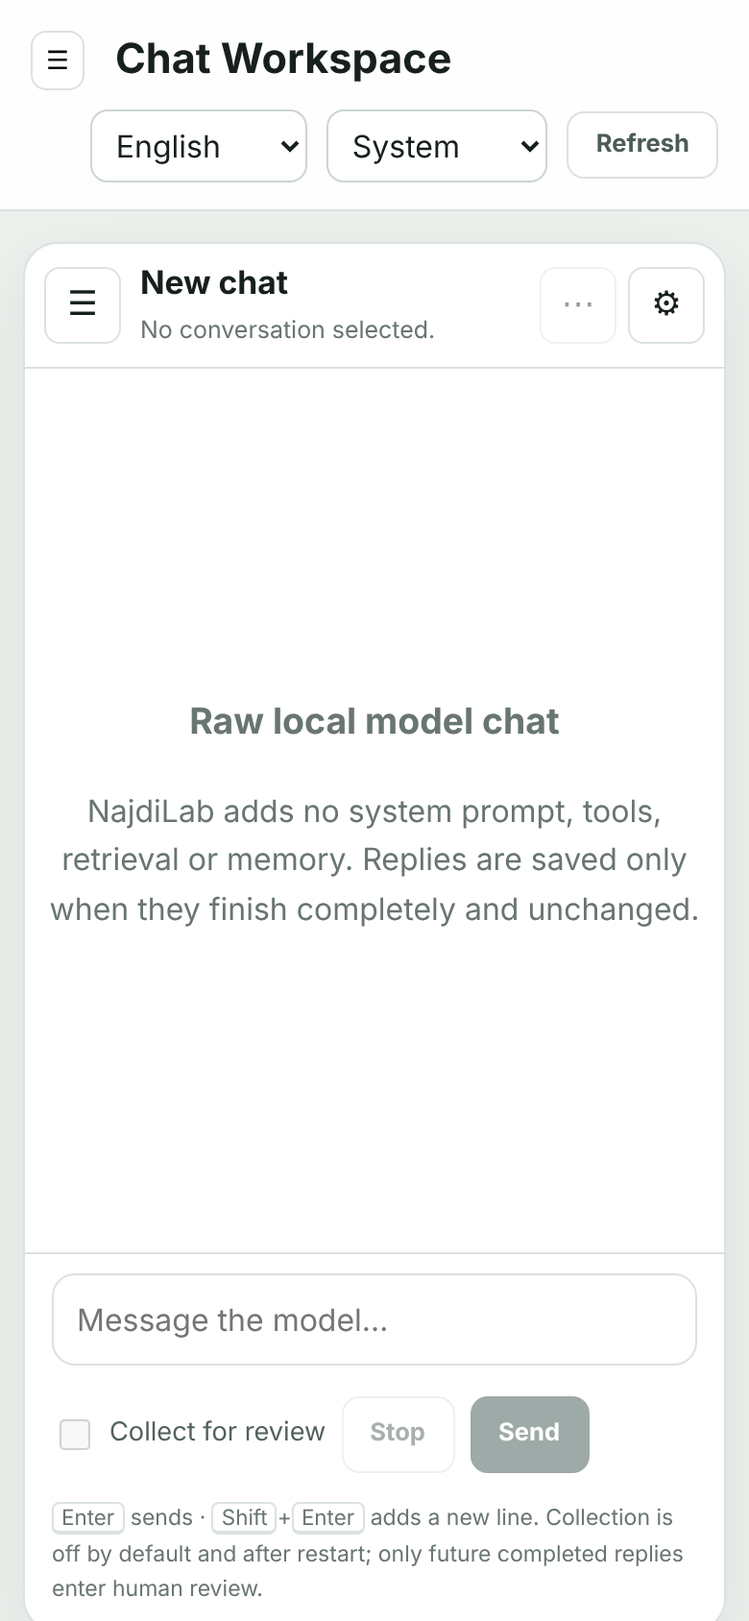
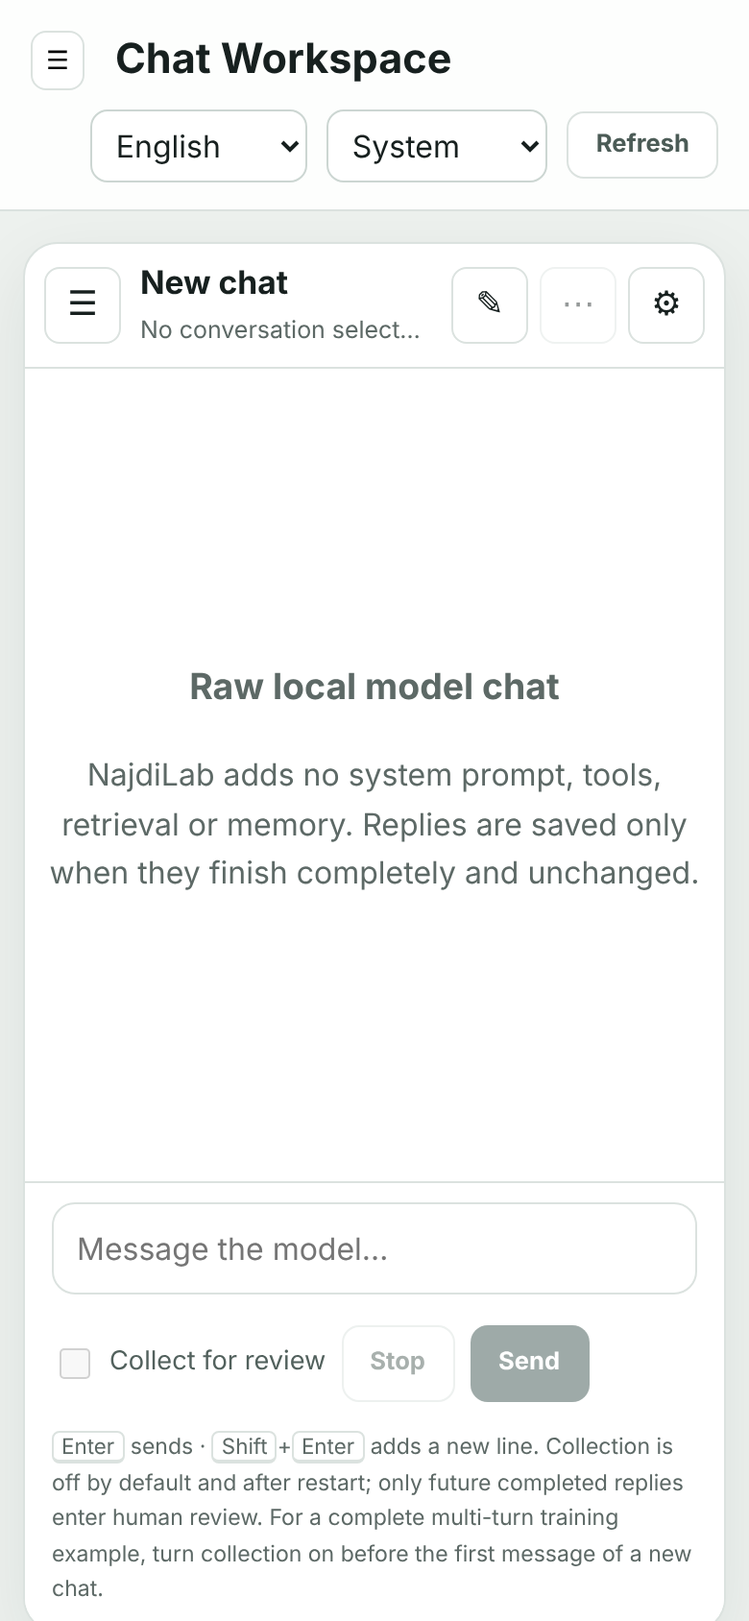
Phase UX/UI: audit, refinements and acceptance; docs and test log
- axe-core WCAG 2 A/AA audit over 212 states (15 views + 3 chat dialogs,
  6 sizes incl. 200%/400% zoom, light/dark, EN/AR): 148 violations and 28
  overflowing states before, 0 and 0 after (tests/ux-audit.cjs, optional).
- Fixes: tablet layout (conversation list overlay + wrapping top bar below
  1100px), New chat in the chat header when the list is hidden, dialogs
  scroll at 400% zoom, theme-aware contrast (footer, muted text, links,
  chips, dark-mode labels, tabs, warnings), Add data tab semantics,
  keyboard-focusable code blocks (static/ux-refinements.css).
- Before/after screenshots and regenerated README screenshots (synthetic).
- README guard: four badge rows, well-formed shields URLs, all relative
  links resolve.
- Docs: UX_UI_DESIGN_REVIEW.md; test log with PASS/FAIL/BLOCKED/NOT
  TESTED/SKIPPED per check; CHANGELOG; attribution for axe-core and
  puppeteer-core as test-time tools.

Claude-Session: https://claude.ai/code/session_01C5XLa6Krk2M46zPQGv4phc

diff --git a/static/ux-refinements.css b/static/ux-refinements.css
@@ -1,0 +1,45 @@
+/* Phase UX/UI refinements (2026-11-03). Loaded last. Every value below fixes a
+   measured axe-core finding or a screenshot finding; see docs/UX_UI_DESIGN_REVIEW.md. */
+
+/* Contrast (WCAG 2 AA 4.5:1 for small text). Light values measured against
+   their real backgrounds; dark mode uses the theme tokens. */
+:root{--muted:#5d6966}                                   /* was #697572: 4.48 → 5.35 on #f6f8f7 */
+.app-footer,footer{color:var(--muted)}                   /* was #71807b: 3.62 → 5.01 (light), 9+ (dark) */
+.chatv2-answer a{color:#3d6690}                          /* was #547da6: 4.32 → 6.0 */
+.status-neutral{color:#56635f}                           /* was #66736f: 4.31 → 5.48 */
+:root[data-theme="dark"] .chatv2-answer a{color:var(--blue)}
+:root[data-theme="dark"] .status-neutral{color:var(--ink)}
+:root[data-theme="dark"] :is(.eyebrow,[data-version-name]>span){color:var(--gold)}   /* #8a6d2e: 3.26 → 7.3 */
+:root[data-theme="dark"] .subtabs button.active{background:var(--surface-raised);color:var(--ink)} /* was 1.1:1 */
+:root[data-theme="dark"] :is(.inline-check,.balance-notice small,.recommendation small,.count-grid code,.hash-list code){color:var(--muted)}
+
+/* Keyboard access to horizontally scrolling code blocks. */
+.md-code pre:focus-visible{outline:3px solid var(--focus,#2563eb);outline-offset:-3px}
+
+/* Tablet: below 1100px the app navigation and the conversation list no longer
+   both fit beside a readable conversation, so the list becomes an overlay and
+   the top bar wraps instead of overflowing the page. */
+@media (max-width:1100px){
+  .topbar{flex-wrap:wrap;row-gap:8px}
+  .top-actions{flex-wrap:wrap;justify-content:flex-end;max-width:100%}
+  .chatv2,.chatv2[data-sidebar="closed"]{grid-template-columns:minmax(0,1fr)}
+  .chatv2-sidebar{position:absolute;inset-block:0;inset-inline-start:0;z-index:30;width:min(320px,86vw);max-height:none;box-shadow:var(--shadow,0 8px 24px rgba(0,0,0,.25))}
+  .chatv2-main{max-height:none;min-height:calc(100vh - 140px)}
+}
+
+/* "New chat" stays reachable when the list is hidden (phones, tablets, collapsed). */
+#chat-new-header{display:none}
+.chatv2[data-sidebar="closed"] #chat-new-header{display:inline-block}
+
+/* Second pass (dark mode leftovers from the audit). */
+:root[data-theme="dark"] :is(#page-breadcrumb,.health-card small){color:var(--gold)}
+:root[data-theme="dark"] :is(.privacy-chip,.status-ok){color:var(--status-ready-text)}
+:root[data-theme="dark"] :is(label[for="health-version"],label[for="balance-version"]){color:var(--muted)}
+:root[data-theme="dark"] .warning{background:var(--status-warning-bg);color:var(--status-warning-text)}
+
+/* Dialogs scroll inside themselves on short screens and at 400% zoom
+   (screenshot finding: the New chat dialog was cut off with no way to reach Start). */
+.chatv2-dialog{overflow-y:auto;overscroll-behavior:contain}
+/* Dark mode: the Add data tab bar kept a light background (screenshot finding). */
+:root[data-theme="dark"] .subtabs{background:var(--surface-soft)}
+:root[data-theme="dark"] .subtabs button:not(.active){color:var(--muted)}

diff --git a/static/app.js b/static/app.js
@@ -709,7 +709,7 @@ function bindEvents(){
   restrictionControls.forEach(selector=>$(selector).addEventListener('change',e=>{if(e.target.checked)$('#training-eligible').checked=false;}));
   $('#training-eligible').addEventListener('change',e=>{if(e.target.checked&&restrictionControls.some(selector=>$(selector).checked)){e.target.checked=false;toast('Resolve dataset restrictions explicitly before marking this record eligible.',true);}});
   $('#conversation-list').addEventListener('click',e=>{const b=e.target.closest('[data-id]');if(b)showConversation(b.dataset.id).catch(x=>toast(x.message,true));});$('#search-conversations').addEventListener('click',()=>loadConversations({fresh:true}).catch(e=>toast(e.message,true)));$('#conversation-search').addEventListener('keydown',e=>{if(e.key==='Enter')loadConversations({fresh:true}).catch(x=>toast(x.message,true));});$('#apply-reviewed-filters').addEventListener('click',()=>loadReviewed({fresh:true}).catch(e=>toast(e.message,true)));$('#reviewed-list').addEventListener('change',e=>{if(!e.target.matches('.reviewed-row-check'))return;const id=Number(e.target.dataset.reviewId);e.target.checked?state.reviewedSelected.add(id):state.reviewedSelected.delete(id);updateReviewedBulk();});$('#reviewed-list').addEventListener('click',e=>{const restore=e.target.closest('[data-restore-review]'),exclude=e.target.closest('[data-exclude-review]');if(restore)bulkReviewed('restore',[Number(restore.dataset.restoreReview)]).catch(x=>toast(x.message,true));if(exclude)bulkReviewed('exclude',[Number(exclude.dataset.excludeReview)]).catch(x=>toast(x.message,true));});$('#bulk-exclude-reviews').addEventListener('click',()=>bulkReviewed('exclude').catch(e=>toast(e.message,true)));$('#bulk-restore-reviews').addEventListener('click',()=>bulkReviewed('restore').catch(e=>toast(e.message,true)));
-  document.querySelectorAll('#view-add-data .subtabs [data-add-tab]').forEach(button=>button.addEventListener('click',()=>{document.querySelectorAll('#view-add-data .subtabs [data-add-tab]').forEach(b=>b.classList.toggle('active',b===button));document.querySelectorAll('#view-add-data .data-form').forEach(form=>form.classList.toggle('active',form.id===`form-${button.dataset.addTab}`));}));$('#add-sft-turn').addEventListener('click',()=>addSftTurn($('#sft-turns .turn-row:last-child .turn-role')?.value==='user'?'assistant':'user'));
+  document.querySelectorAll('#view-add-data .subtabs [data-add-tab]').forEach(button=>button.addEventListener('click',()=>{document.querySelectorAll('#view-add-data .subtabs [data-add-tab]').forEach(b=>{b.classList.toggle('active',b===button);b.setAttribute('aria-selected',String(b===button));});document.querySelectorAll('#view-add-data .data-form').forEach(form=>form.classList.toggle('active',form.id===`form-${button.dataset.addTab}`));}));$('#add-sft-turn').addEventListener('click',()=>addSftTurn($('#sft-turns .turn-row:last-child .turn-role')?.value==='user'?'assistant':'user'));
   $('#form-sft').addEventListener('submit',async e=>{
     e.preventDefault();
     const rows=Array.from(document.querySelectorAll('#sft-turns .turn-row'));

diff --git a/static/index.html b/static/index.html
@@ -18,6 +18,7 @@
   <link rel="stylesheet" href="/integrations.css">
   <link rel="stylesheet" href="/chat.css">
   <link rel="stylesheet" href="/i18n.css">
+  <link rel="stylesheet" href="/ux-refinements.css">
 </head>
 <body>
   <a class="skip-link" href="#main-content">Skip to main content</a>
@@ -98,6 +99,7 @@
                 <p id="chat-session-identity" class="chatv2-binding" role="status">No conversation selected.</p>
               </div>
               <div class="chatv2-header-actions">
+                <button id="chat-new-header" class="chatv2-icon" type="button" aria-label="New chat" title="New chat">✎</button>
                 <button id="chat-actions" class="chatv2-icon" type="button" aria-haspopup="menu" aria-expanded="false" aria-label="Conversation actions" title="Conversation actions" disabled>⋯</button>
                 <button id="chat-settings-open" class="chatv2-icon" type="button" aria-haspopup="dialog" aria-label="Chat settings and device details" title="Chat settings">⚙</button>
               </div>
@@ -313,8 +315,8 @@
       </section>
 
       <section id="view-add-data" class="view">
-        <div class="subtabs" role="tablist">
-          <button class="active" data-add-tab="sft">Conversation / SFT</button><button data-add-tab="direct">Direct language text</button><button data-add-tab="preference">Preference pair / DPO</button>
+        <div class="subtabs" role="tablist" aria-label="Data type">
+          <button class="active" role="tab" aria-selected="true" aria-controls="form-sft" data-add-tab="sft">Conversation / SFT</button><button role="tab" aria-selected="false" aria-controls="form-direct" data-add-tab="direct">Direct language text</button><button role="tab" aria-selected="false" aria-controls="form-preference" data-add-tab="preference">Preference pair / DPO</button>
         </div>
         <form id="form-sft" class="data-form panel active">
           <div class="form-intro"><h2>Manual conversation</h2><p>Add a short or multi-turn conversation while preserving context order.</p></div>

diff --git a/static/chat.js b/static/chat.js
@@ -389,7 +389,7 @@
     el('chat-sidebar-toggle').setAttribute('aria-expanded',String(open));
     if(store){try{global.localStorage.setItem(SIDEBAR_KEY,open?'open':'closed');}catch{}}
   }
-  const narrow=()=>global.matchMedia&&global.matchMedia('(max-width: 760px)').matches;
+  const narrow=()=>global.matchMedia&&global.matchMedia('(max-width: 1100px)').matches;
   let listItems=[];
   async function saved(more=false){
     const offset=more?savedLoaded:0;
@@ -719,13 +719,14 @@
     const pref=sidebarPreference();
     setSidebar(narrow()?false:pref!=='closed',false);
     if(global.matchMedia){
-      const query=global.matchMedia('(max-width: 760px)');
+      const query=global.matchMedia('(max-width: 1100px)');
       const change=()=>setSidebar(query.matches?false:sidebarPreference()!=='closed',false);
       if(query.addEventListener)query.addEventListener('change',change);
     }
     el('chat-sidebar-toggle').onclick=()=>setSidebar(el('chat-shell').dataset.sidebar!=='open',!narrow());
     el('chat-sidebar-close').onclick=()=>{setSidebar(false,!narrow());el('chat-sidebar-toggle').focus();};
     el('chat-new').onclick=act(async()=>{await loadRuntimes();openSetup();});
+    el('chat-new-header').onclick=act(async()=>{await loadRuntimes();openSetup();});
     el('chat-provider').onchange=fillModels;
     el('chat-model').onchange=()=>{withdrawApproval();renderPresets();updateBreakdown();};
     el('chat-preset-check').onclick=async()=>{el('chat-setup-error').textContent='';try{await checkPresets();}catch(error){compose(el('chat-setup-error'),errorParts(error));}};

diff --git a/static/i18n-ar.js b/static/i18n-ar.js
@@ -825,6 +825,7 @@
     'Reviewer reasons that cannot be removed': 'أسباب مراجعين لا يمكن حذفها',
     'Some review events have a reason written by a reviewer. Those reasons are locked by the audit trail and stay as written; check that they do not quote this conversation.': 'بعض أحداث المراجعة فيها سبب كتبه مراجع. هذه الأسباب مقفلة في سجل التدقيق وتبقى كما كُتبت؛ تأكد أنها لا تقتبس من هذه المحادثة.',
     'Conversation deleted from the database, but the database journal could not be cleaned yet because another reader was using it. Old copies may remain in the journal file until NajdiLab restarts.': 'حُذفت المحادثة من قاعدة البيانات، لكن تعذّر تنظيف سجل قاعدة البيانات الآن لأن قارئًا آخر كان يستخدمه. قد تبقى نسخ قديمة في ملف السجل حتى يُعاد تشغيل نجدي لاب.',
+    'Data type': 'نوع البيانات',
     // Chat Experience V2 (2026-11-02): chat UI, permanent deletion, NajdiLab Native.
     '16384 context · 3072 reply': 'سياق 16384 · رد 3072',
     '4096 context · 1024 reply': 'سياق 4096 · رد 1024',

diff --git a/static/chat-markdown.js b/static/chat-markdown.js
@@ -171,7 +171,8 @@
       const box=el('div','md-code'),head=el('div','md-code-head'),label=el('span','md-code-lang'),copy=el('button','md-copy');
       label.textContent=node.lang||t('Code');label.setAttribute('translate','no');
       copy.type='button';copy.textContent=t('Copy code');copy.dataset.code=node.text;
-      const pre=el('pre'),code=el('code');pre.dir='ltr';code.textContent=node.text;pre.append(code);
+      // Focusable so a wide block can be scrolled with the keyboard (WCAG 2.1.1).
+      const pre=el('pre'),code=el('code');pre.dir='ltr';pre.tabIndex=0;pre.setAttribute('aria-label',t('Code'));code.textContent=node.text;pre.append(code);
       head.append(label,copy);box.append(head,pre);return box;
     }
     for(const node of nodes)fragment.append(make(node));

diff --git a/tests/test_readme_structure.py b/tests/test_readme_structure.py
@@ -114,3 +114,22 @@ def test_licensing_and_attribution_links():
     licensing = section("Licensing and attribution")
     assert "docs/THIRD_PARTY_ATTRIBUTION.md" in licensing
     assert "no active source license" in licensing.lower()
+
+
+def test_badge_urls_are_well_formed_shields_badges():
+    """shields.io renders `badge/<label>-<message>-<hex color>`; a malformed URL shows
+    a broken image on GitHub. Checked offline (the renderer is not contacted)."""
+    rows = re.findall(r'<p align="center">\s*((?:<a [^>]+><img [^>]+></a>\s*)+)</p>', README)
+    assert len(rows) == 4, f"four badge rows in the approved design, found {len(rows)}"
+    for url in re.findall(r'src="(https://img\.shields\.io/badge/[^"]+)"', README):
+        path, _, query = url.partition('?')
+        body = unquote(path.rsplit('/badge/', 1)[1])
+        parts = re.split(r'(?<!-)-(?!-)', body)
+        assert len(parts) == 3 and re.fullmatch(r'[0-9A-Fa-f]{6}', parts[2]), f"malformed badge: {url}"
+        assert 'style=for-the-badge' in query.replace('&amp;', '&'), url
+
+
+def test_badge_links_and_all_relative_links_resolve():
+    targets = re.findall(r'<a href="([^"#]+)', README) + re.findall(r'\]\((?!https?:|#)([^)#\s]+)', README)
+    missing = [t for t in targets if not t.startswith('http') and not (ROOT / unquote(t)).exists()]
+    assert not missing, f"README links to missing files: {missing}"

diff --git a/docs/UX_UI_DESIGN_REVIEW.md b/docs/UX_UI_DESIGN_REVIEW.md
@@ -1,0 +1,84 @@
+# Phase UX/UI — design audit, refinement and acceptance
+
+| | |
+|---|---|
+| Date | 2026-11-03 |
+| Branch | `feature/chat-experience-v2` |
+| Scope | The whole interface: all 15 views, the chat setup dialog, chat settings drawer, delete dialog and action menu |
+| Data | Synthetic browser fixture only (`tests/chat_browser_fixture.py`); no personal conversation, credential or real model |
+| Gate status | **Automated and screenshot review: PASS after fixes.** Owner visual sign-off, real screen readers, real IMEs, other browsers and Windows rendering: **NOT TESTED**. |
+
+## Tools and their limits
+
+- The requested Claude Code skills **`frontend-design` and `web-design-guidelines` were not available** in this session (`Unknown skill` for both). No skill was used; this review was done manually with the tools below.
+- **axe-core 4.10.3** (MPL-2.0, Deque Systems; test-time only, not shipped) run by `tests/ux-audit.cjs` against WCAG 2.0/2.1 A and AA rules in headless Chromium (build 1243).
+- Real browser screenshots of every state, read one by one. axe does not judge layout or design, so the screenshots were reviewed separately; two problems below were found only that way.
+- Matrix: 6 sizes (desktop 1440×900, tablet 820×1180, phone 390×844 and 320×700, 200 % zoom ≈ 720×450, 400 % zoom ≈ 360×225) × light/dark × English (LTR)/Arabic (RTL). All 15 views at desktop-light and 390-dark; dashboard, chat, review and settings plus the three chat dialogs everywhere: **212 page states** per run.
+
+## Results
+
+| Measure | Before | After |
+|---|---:|---:|
+| axe WCAG 2 A/AA violations (rule × state) | 148 (`color-contrast` 140, `aria-required-children` 4, `scrollable-region-focusable` 4) — 586 affected nodes | **0** |
+| States with horizontal page overflow | 28 (every tablet state, up to 173 px) | **0** |
+| Screenshot-only findings | 4 (UX-2, UX-3, UX-13, UX-14) | 0 open |
+
+Existing acceptance suites after the changes: `a11y-browser.cjs` (keyboard, names, 200 %/400 % zoom) 13/13, `i18n-browser.cjs` (Arabic RTL, no untranslated text, 390 px) 10/10, `chat-browser.cjs` and `chat-enhancements-browser.cjs` PASS, `review-restrictions-browser.cjs` 12/12. Counts and commit: [test results](development/CHAT_EXPERIENCE_V2.md#test-results).
+
+## Findings and fixes
+
+| ID | Where | Finding | Evidence | Fix |
+|---|---|---|---|---|
+| UX-1 | All views, tablet (820 px) | Page overflowed horizontally by up to 173 px; the chat pane was squeezed to ~200 px between the app navigation and the conversation list. | axe audit overflow; screenshot | Below 1100 px the conversation list becomes an overlay and the top bar wraps (`static/ux-refinements.css`, `static/chat.js` breakpoint). |
+| UX-2 | Phones, tablets, collapsed list | "New chat" was only inside the hidden conversation list. | Screenshot; the audit script could not click it at 390 px | ✎ "New chat" button in the chat header whenever the list is hidden. |
+| UX-3 | Chat dialogs at 400 % zoom / short screens | The New chat dialog was cut off with no scroll, so Start was unreachable. Not detectable by axe. | Screenshot `before-zoom-400…` | Dialogs scroll inside themselves; regression check in `chat-browser.cjs`. |
+| UX-4 | Global footer (light and dark) | Text #71807b: 3.62:1 on light, 4.41:1 on dark. | axe | Theme token `--muted`; 5.01:1 light. |
+| UX-5 | Muted labels (light) | #697572: 4.48:1 (chat roles, list metadata, many labels). | axe | `--muted` → #5d6966 (5.35:1). |
+| UX-6 | Markdown links (light) | #547da6: 4.32:1. | axe | #3d6690 (6.0:1); dark uses `--blue`. |
+| UX-7 | Status chips | `.status-neutral` 4.31:1 light; `.status-ok`, privacy chip unreadable in dark. | axe | Theme-aware colors. |
+| UX-8 | Dark mode labels | Eyebrow labels, breadcrumb, version tags, health cards #8a6d2e: 3.26:1. | axe | `--gold` (7.3:1). |
+| UX-9 | Add data tabs, dark | Active tab text on a white background: **1.1:1**. | axe; `before-mobile-390-dark-ar-add-data` | Theme surface background. |
+| UX-10 | Dark mode filters/notes/code | #52615d / #6b7773 on dark panels: 2.44–3.41:1; export warning used the light warning background. | axe | Theme tokens. |
+| UX-11 | Add data tabs | `role="tablist"` without `role="tab"` children (screen readers announce an empty tab list). | axe `aria-required-children` | `role="tab"`, `aria-selected` (kept in sync), `aria-controls`, `aria-label`. |
+| UX-12 | Markdown code blocks | Horizontally scrolling `<pre>` not reachable by keyboard. | axe `scrollable-region-focusable` | `tabindex="0"`, label "Code", visible focus ring. |
+| UX-14 | Add data tab bar, dark | The tab bar kept a light background in dark mode (contrast passed, but inconsistent). | Screenshot | Theme surface; inactive tabs use `--muted`. Quick re-audit after this change: 36 states, 0 violations, 0 overflow. |
+| UX-13 | Chat after reload | A stale error notice hid the "bound to original model" warning. | Ported PR #21 browser test | Notices reset on reload (`static/chat.js`). |
+
+## Before and after
+
+| Finding | Before | After |
+|---|---|---|
+| UX-1 tablet overflow | ![before](images/ux-review/before-tablet-light-en-chat.png) | ![after](images/ux-review/after-tablet-light-en-chat.png) |
+| UX-8 dark contrast | ![before](images/ux-review/before-desktop-dark-en-dashboard.png) | ![after](images/ux-review/after-desktop-dark-en-dashboard.png) |
+| UX-3 400 % zoom dialog | ![before](images/ux-review/before-zoom-400-light-en-chat-setup-dialog.png) | ![after](images/ux-review/after-zoom-400-light-en-chat-setup-dialog.png) |
+| UX-9 Arabic dark tabs | ![before](images/ux-review/before-mobile-390-dark-ar-add-data.png) | ![after](images/ux-review/after-mobile-390-dark-ar-add-data.png) |
+
+All images come from the synthetic fixture (titles like "MARKDOWN_FIXTURE", synthetic Arabic sample text); none contains personal conversations, credentials or paths beyond the temporary loopback address.
+
+## Reviewed and kept as is
+
+- **Navigation and hierarchy:** existing app navigation, breadcrumb and page titles are clear; Chat V2 keeps its own list beside the conversation on desktop.
+- **Chat composition and streaming:** large composer, Send/Stop always visible (≥40 px targets), live status line per phase, dashed border while streaming, red dashed "not saved" state.
+- **Thinking and Markdown:** thinking collapses when the answer starts and is visually secondary; Markdown has a raw-text toggle; code blocks are LTR inside RTL text.
+- **Model selection and context:** presets show the reason they are locked; budget breakdown below; Ollama consent box only for Ollama.
+- **Hardware and Native:** tables label Measured / Reported / Estimate / Unknown; Native panel explains it never downloads anything.
+- **Archive and delete:** archive uses a confirm; delete needs the typed word, lists what is deleted, kept and unreachable, and reports a busy journal.
+- **Review and dataset screens:** contrast fixed; layouts unchanged (they already passed the earlier 390 px acceptance).
+- **States:** empty, loading ("Waiting for the model…"), error (message + code + hint), disabled (presets with reason, Send without text).
+- **Architecture:** vanilla HTML/CSS/JS kept; one new stylesheet, no framework or build step.
+
+## Remaining limitations (not tested here)
+
+- Real screen readers (NVDA, Narrator, VoiceOver) and real IMEs (Arabic, CJK).
+- Firefox, Safari and Windows font rendering.
+- Owner's visual approval of the refined colors.
+- The interface still needs a GPU for presets to unlock (PR #21 rule; see [reconciliation](development/PR21_PR22_RECONCILIATION.md)).
+
+## Reproduce
+
+```bash
+npm install --prefix ../chat-browser-tools --ignore-scripts --no-audit --no-fund puppeteer-core@25.16.0 axe-core@4.10.3
+NAJDILAB_BROWSER_EXECUTABLE=/path/to/chromium NODE_PATH=../chat-browser-tools/node_modules node tests/ux-audit.cjs ux-audit-output
+```
+
+The run writes `ux-audit.json` (violations, overflow per state) and one screenshot per state.

diff --git a/docs/development/CHAT_EXPERIENCE_V2.md b/docs/development/CHAT_EXPERIENCE_V2.md
@@ -102,31 +102,43 @@ Guard: `tests/test_readme_structure.py` (8 checks) fails if a refactor removes a
 
 ## Test results
 
-Run on 2026-11-02, Linux container (Python 3.13.18, Node 22.23.4, Chromium build 1243 via `puppeteer-core@25.16.0`, llama.cpp `llama-server` b12059 CPU build). The tested code is exactly the commit that adds this log; only this section changed after the run. **Windows was not run. Hosted GitHub Actions results are not claimed.**
+### Remediation run (2026-11-03) — current
 
-| Suite | Passed | Failed | Skipped | Notes |
-|---|---:|---:|---:|---|
-| `pytest tests` with `NAJDILAB_NATIVE_TEST_SERVER` set | 729 | 0 | 33 | 59 subtests passed. Includes 3 real llama-server lifecycle tests. |
-| `pytest tests` without a llama-server | 726 | 0 | 36 | The 3 extra skips are the Native lifecycle tests. |
-| Node unit tests (7 files, CI list) | 43 | 0 | 0 | Includes the new `chat-v2-ui.test.cjs` and the extended Arabic catalog checks. |
-| Chromium `chat-browser.cjs` | PASS | — | — | One end-to-end script: keyboard, duplicates, streaming, thinking, Markdown/XSS, sidebar actions, 320/390px, rollover, Stop, Ollama approval, hardware tables, draft preservation, permanent delete. |
-| Chromium `review-restrictions-browser.cjs` | 12 | 0 | 0 | |
-| Chromium `i18n-browser.cjs` | 10 | 0 | 0 | Arabic RTL scan includes the chat view, the new-chat dialog and 390px. |
-| Chromium `a11y-browser.cjs` | 13 | 0 | 0 | Keyboard, names, 200%/400% zoom. |
-| `scripts/check_docs.py` | PASS | — | — | 73 Markdown files, links and API inventory. |
-| `compileall app scripts tests` | PASS | — | — | |
+Linux container, Python 3.13.18, SQLite 3.53.1, Node 22.23.4, Chromium build 1243 via `puppeteer-core@25.16.0`, llama.cpp `llama-server` b12059 (CPU). Tested tree: the commit that adds this section (PR #21 reconciliation `c7c4261` + security/deletion `38ea703` + UX/UI changes). Synthetic data only.
 
-Skipped tests (33) are not passes: 24 need private historical artifacts that are not in the repository; 9 need a real Ollama binary (`NAJDILAB_DISPOSABLE_OLLAMA=1`), not installed here.
+| Check | Status | Passed | Failed | Skipped | Notes |
+|---|---|---:|---:|---:|---|
+| `pytest tests` (with `NAJDILAB_NATIVE_TEST_SERVER`) | PASS | 771 | 0 | 33 | 59 subtests. Skips: 22 private historical artifacts not in the repo, 9 real-Ollama (`NAJDILAB_DISPOSABLE_OLLAMA=1`), 2 Windows-only checks. |
+| Node unit tests (`tests/*.test.cjs`, 8 files) | PASS | 49 | 0 | 0 | Includes PR #21 unit tests ported to the V2 API. |
+| Core builder `public_source/tests/test_builder.py` | PASS | 12 | 0 | 0 | **Was 8/12 (FAIL) on `d085ed2`**: new files unclassified; fixed. |
+| Core candidate build + verify + tests + harness + browser | PASS | 78 | 0 | 0 | Same steps as `public-source-candidate.yml`. |
+| Chromium `chat-browser.cjs` | PASS | — | — | — | V2 end-to-end incl. 400 % zoom dialog reachability. |
+| Chromium `chat-enhancements-browser.cjs` (PR #21, ported) | PASS | — | — | — | |
+| Chromium `review-restrictions-browser.cjs` | PASS | 12 | 0 | 0 | |
+| Chromium `i18n-browser.cjs` (Arabic RTL / English LTR, 390 px) | PASS | 10 | 0 | 0 | |
+| Chromium `a11y-browser.cjs` (keyboard, names, 200 %/400 % zoom) | PASS | 13 | 0 | 0 | |
+| UX audit `tests/ux-audit.cjs` (axe-core WCAG 2 A/AA + overflow, 212 states) | PASS | 0 violations | — | — | Before: 148 violations, 28 overflowing states. |
+| README guard `test_readme_structure.py` | PASS | 10 | 0 | 0 | Fails 8/8 core checks on the shortened PR #11 README. |
+| `check_docs.py`, `compileall` | PASS | — | — | — | |
+| Migration 008 rollback (older `634e7a5` code on a migrated DB) | PASS | — | — | — | Manual run: list/get/send/create/archive, integrity ok, no FK errors. |
+| Acceptance runner `scripts/acceptance_chat_v2.py` (Linux, CPU) | PASS for the steps it could run | — | — | — | Migration on a read-only copy PASS; Native start/stop/unload PASS; synthetic model's reply correctly refused as `STOP_REASON_LENGTH`. |
+| Windows 11 (all suites) | BLOCKED | — | — | — | No computer connected. |
+| RTX 5070 / CUDA / VRAM / OOM | BLOCKED | — | — | — | No GPU. |
+| Real Gemma 4 on Ollama, LM Studio, real GGUF | NOT TESTED | — | — | — | Needs the owner's machine. |
+| README badge rendering on GitHub | NOT TESTED | — | — | — | shields.io unreachable from here; URLs validated offline, local images verified. |
+| Hosted GitHub Actions | SKIPPED | — | — | — | Workflows skip Draft PRs by design (`if: draft == false`); hosted allocation reported exhausted. **Skipped is not PASS.** |
 
-New tests in this branch: `test_chat_v2.py` (24), `test_chat_v2_stream.py` (11), `test_native_runtime.py` (11), `test_readme_structure.py` (8), `chat-v2-ui.test.cjs` (14), the Chat V2 catalog check, and the rewritten chat section of `chat-browser.cjs`. Failure cases are covered explicitly: stale revision, wrong confirmation, active turn, exported copy, mid-transaction failure, stream error lines, data after the final chunk, missing final chunk, wrong content type, length stop, empty answer, prompt-count mismatch, changed model file, wrong context, stopped runtime, hostile GGUF headers, path traversal, unsafe links and raw HTML.
+### Earlier run (2026-11-02, `d085ed2`) — superseded
 
-Two existing UI-contract tests (`test_dataset_scope_ui.py`, `test_dataset_ui.py`) asserted the old chat wording; they were updated to the V2 labels for the same controls and disclosure. `test_chat_hardware.py` was updated for the new 4096 tier. `test_phase_a_regressions.py` now expects 008 as the last registered migration.
+The earlier table claimed all suites passed, but the Core builder suite (`public_source/tests/test_builder.py`) had **not** been run and was failing 4/12; that omission is recorded here and fixed above.
 
-Not tested: Windows; any GPU; RTX 5070; real LM Studio, Ollama or llama.cpp models; the owner's permanent installation.
+## Remediation phase (2026-11-03)
+
+PR #21 reconciliation, security review, permanent-deletion audit and UX/UI phase: [PR21_PR22_RECONCILIATION.md](PR21_PR22_RECONCILIATION.md), [CHAT_V2_SECURITY_REVIEW.md](CHAT_V2_SECURITY_REVIEW.md), [PERMANENT_DELETION_AUDIT.md](PERMANENT_DELETION_AUDIT.md), [UX_UI_DESIGN_REVIEW.md](../UX_UI_DESIGN_REVIEW.md), [WINDOWS_ACCEPTANCE.md](WINDOWS_ACCEPTANCE.md).
 
 ## Local installation update
 
-**Blocked — not performed.** The permanent installation (`C:\Users\Admin\NajdiLab-PR19-20-Local`, port 8870) is on the owner's Windows computer. No computer was attached to this cloud session (`list_computer_folders` returned none), so its source, services, database and backups could not be inspected, backed up or updated. Nothing on that machine was touched. Owner steps when ready are in [Rollback](#rollback) and the update checklist below.
+**Blocked — not performed.** The permanent installation (`C:\Users\Admin\NajdiLab-PR19-20-Local`, port 8870) is on the owner's Windows computer. According to PR #21's description it now runs PR #21 (`95e7604`, seven migrations); moving it to PR #22 applies migration 008 and needs the checklist below and [WINDOWS_ACCEPTANCE.md](WINDOWS_ACCEPTANCE.md) first. No computer was attached to this cloud session (`list_computer_folders` returned none), so its source, services, database and backups could not be inspected, backed up or updated. Nothing on that machine was touched. Owner steps when ready are in [Rollback](#rollback) and the update checklist below.
 
 Update checklist for the owner (do not skip any step):
 1. Stop NajdiLab on port 8870. Do not stop Ollama or LM Studio.

diff --git a/README.md b/README.md
@@ -328,11 +328,12 @@ This is a **trusted local single-operator service**, not a hardened public-netwo
 ```bash
 python -m pip install -r requirements-dev.txt -r requirements-chat.txt
 python -m pytest -q tests -rs
-node --test tests/integrations-ui.test.cjs tests/chat-ui.test.cjs tests/chat-v2-ui.test.cjs tests/phase39-ui.test.cjs tests/dataset-identity-ui.test.cjs tests/pagination-ui.test.cjs tests/i18n-catalog.test.cjs
+node --test tests/*.test.cjs
+python -m pytest -q public_source/tests/test_builder.py
 python scripts/check_docs.py
 ```
 
-Browser suites (`tests/chat-browser.cjs`, `i18n-browser.cjs`, `a11y-browser.cjs`, `review-restrictions-browser.cjs`) need Chromium and `puppeteer-core`; the NajdiLab Native lifecycle tests run only when `NAJDILAB_NATIVE_TEST_SERVER` points at a `llama-server`. All tests use synthetic data and disposable servers; missing private artifacts are explicit skips, and **skips are not passes**. Exact counts, the tested commit and what was not tested: [test log](docs/development/CHAT_EXPERIENCE_V2.md#test-results). Hosted GitHub Actions results are not claimed for this branch.
+Browser suites (`tests/chat-browser.cjs`, `chat-enhancements-browser.cjs`, `i18n-browser.cjs`, `a11y-browser.cjs`, `review-restrictions-browser.cjs`) need Chromium and `puppeteer-core`; `tests/ux-audit.cjs` (optional, needs `axe-core`) audits every view for WCAG 2 A/AA and overflow; the NajdiLab Native lifecycle tests run only when `NAJDILAB_NATIVE_TEST_SERVER` points at a `llama-server`. All tests use synthetic data and disposable servers; missing private artifacts are explicit skips, and **skips are not passes**. Exact counts, the tested commit and what was not tested: [test log](docs/development/CHAT_EXPERIENCE_V2.md#test-results). Hosted GitHub Actions results are not claimed for this branch.
 
 ## Development progress and roadmap
 
@@ -353,7 +354,7 @@ Start with [developer setup](docs/developer-setup.md), [code navigation](docs/co
 | Need | Guide |
 |---|---|
 | Install, configure, troubleshoot | [Installation](docs/installation.md), [configuration](docs/configuration.md), [shell commands](docs/shell-commands.md) |
-| Chat and runtimes | [Chat workspace](docs/chat-workspace.md), [NajdiLab Native](docs/native-runtime.md), [Chat V2 development log](docs/development/CHAT_EXPERIENCE_V2.md), [PR #21/#22 reconciliation](docs/development/PR21_PR22_RECONCILIATION.md), [PR #21 workflow record](docs/chat-review-workflow-results.md), [collection context audit](docs/chat-dataset-context-audit.md) |
+| Chat and runtimes | [UX/UI review](docs/UX_UI_DESIGN_REVIEW.md), [security review](docs/development/CHAT_V2_SECURITY_REVIEW.md), [deletion audit](docs/development/PERMANENT_DELETION_AUDIT.md), [Windows acceptance](docs/development/WINDOWS_ACCEPTANCE.md), [Chat workspace](docs/chat-workspace.md), [NajdiLab Native](docs/native-runtime.md), [Chat V2 development log](docs/development/CHAT_EXPERIENCE_V2.md), [PR #21/#22 reconciliation](docs/development/PR21_PR22_RECONCILIATION.md), [PR #21 workflow record](docs/chat-review-workflow-results.md), [collection context audit](docs/chat-dataset-context-audit.md) |
 | Extend API/data behavior | [API reference](docs/api-reference.md), [database/migrations](docs/database-and-migrations.md) |
 | Retention and privacy | [Data retention](docs/data-retention.md), [privacy history review](docs/privacy-history-review.md) |
 | Readiness and rights | [Release decision](docs/public-release-decision.md), [dependency matrix](docs/dependency-licensing-matrix.md), [data/model policy](docs/dataset-model-distribution-policy.md) |

diff --git a/docs/asset-provenance.md b/docs/asset-provenance.md
@@ -22,13 +22,22 @@ Core's separate geometric SVG/generator and eight PNGs are AI-assisted engineeri
 
 Old render evidence (68 text labels, zero overlap/outside, minimum contrast6.72:1, deterministic regeneration, no PNG text/EXIF metadata) applied to the old SVG/capture set, not the replacement diagram. Current diagram checks must be recorded separately. [Verification](verification-evidence.md), [release gates](public-release-decision.md).
 
-## Chat Experience V2 captures (2026-11-02)
+## Chat Experience V2 captures (2026-11-02, regenerated 2026-11-03 after the UX/UI phase)
 
 Captured by `tests/readme-screenshots.cjs` with headless Chromium (Playwright build 1243) from the synthetic browser fixture: an empty temporary database, a synthetic engine and fixed synthetic text (titles such as "Second synthetic topic", a Markdown sample). No real conversation, model output, personal data, external icon, font file or third-party image is included; browser system fonts render the text. `dashboard.png` replaces the PR #11-removed dashboard capture (old hash above) with the current interface. The architecture SVG generator received text-only updates (Native runtime, streaming, deletion scope); it still uses only its own shapes and text. Ownership and redistribution rights remain the owner's decision as for the other assets.
 
 | Image | SHA256 |
 |---|---|
[16 lines of base64/hex data omitted]
+The `ux-review/` before/after images are captured by `tests/ux-audit.cjs` from the same synthetic fixture (UX/UI phase, 2026-11-03).

diff --git a/docs/THIRD_PARTY_ATTRIBUTION.md b/docs/THIRD_PARTY_ATTRIBUTION.md
@@ -42,6 +42,18 @@ The task listed these as study references. For each, **no code, markup, styles, 
 | [Ollama](https://github.com/ollama/ollama) | Streaming now uses Ollama's documented NDJSON `/api/chat` stream (`stream: true`). Still an optional, separately installed external service. | Same version gate (0.40.13) as before. License evidence unchanged from the existing register. |
 | LM Studio SDK `lmstudio==1.5.0` | Same pinned optional dependency; streaming uses the SDK's existing fragment stream. | No version change; existing open review of exact-artifact/transitive notices still applies. |
 
+## 4a. Test-time tools (not shipped, not runtime dependencies)
+
+| Tool | Version | License (read from the installed package) | Use | NajdiLab files | Obligations |
+|---|---|---|---|---|---|
+| [axe-core](https://github.com/dequelabs/axe-core) | 4.10.3 | Mozilla Public License 2.0 — https://www.mozilla.org/MPL/2.0/ ; © Deque Systems, Inc. | Accessibility rule engine injected into the page by `tests/ux-audit.cjs` (UX/UI phase). Installed outside the repository (`../chat-browser-tools`); no axe code is copied or committed. | `tests/ux-audit.cjs` (loads it at test time) | None while unmodified and not distributed. If ever bundled, MPL-2.0 requires keeping its notices and offering source for the MPL files. |
+| [puppeteer-core](https://github.com/puppeteer/puppeteer) | 25.16.0 (pinned by the existing CI workflow) | Apache-2.0 | Drives Chromium in the browser suites, the PR #21 port, the screenshot tool and the UX audit. Installed outside the repository. | `tests/*-browser.cjs`, `tests/ux-audit.cjs`, `tests/readme-screenshots.cjs` | None while not distributed. |
+| Chromium (Playwright build 1243) | pre-installed on the test machine | BSD-style Chromium licenses | Headless browser for tests and screenshots. | — | Not distributed. |
+
+## 4b. PR #21 code (same repository)
+
+The reconciliation imported commit `95e7604` from PR #21 (`fix/chat-review-workflow-20261102`), authored by the repository owner. It is first-party code, attributed in the commit (`cherry picked from`) and in [PR21_PR22_RECONCILIATION.md](development/PR21_PR22_RECONCILIATION.md). No license question arises.
+
 ## 5. Dependency review for this branch
 
 - **Python:** no new runtime packages. Test tools unchanged (`pytest==9.1.1`).
